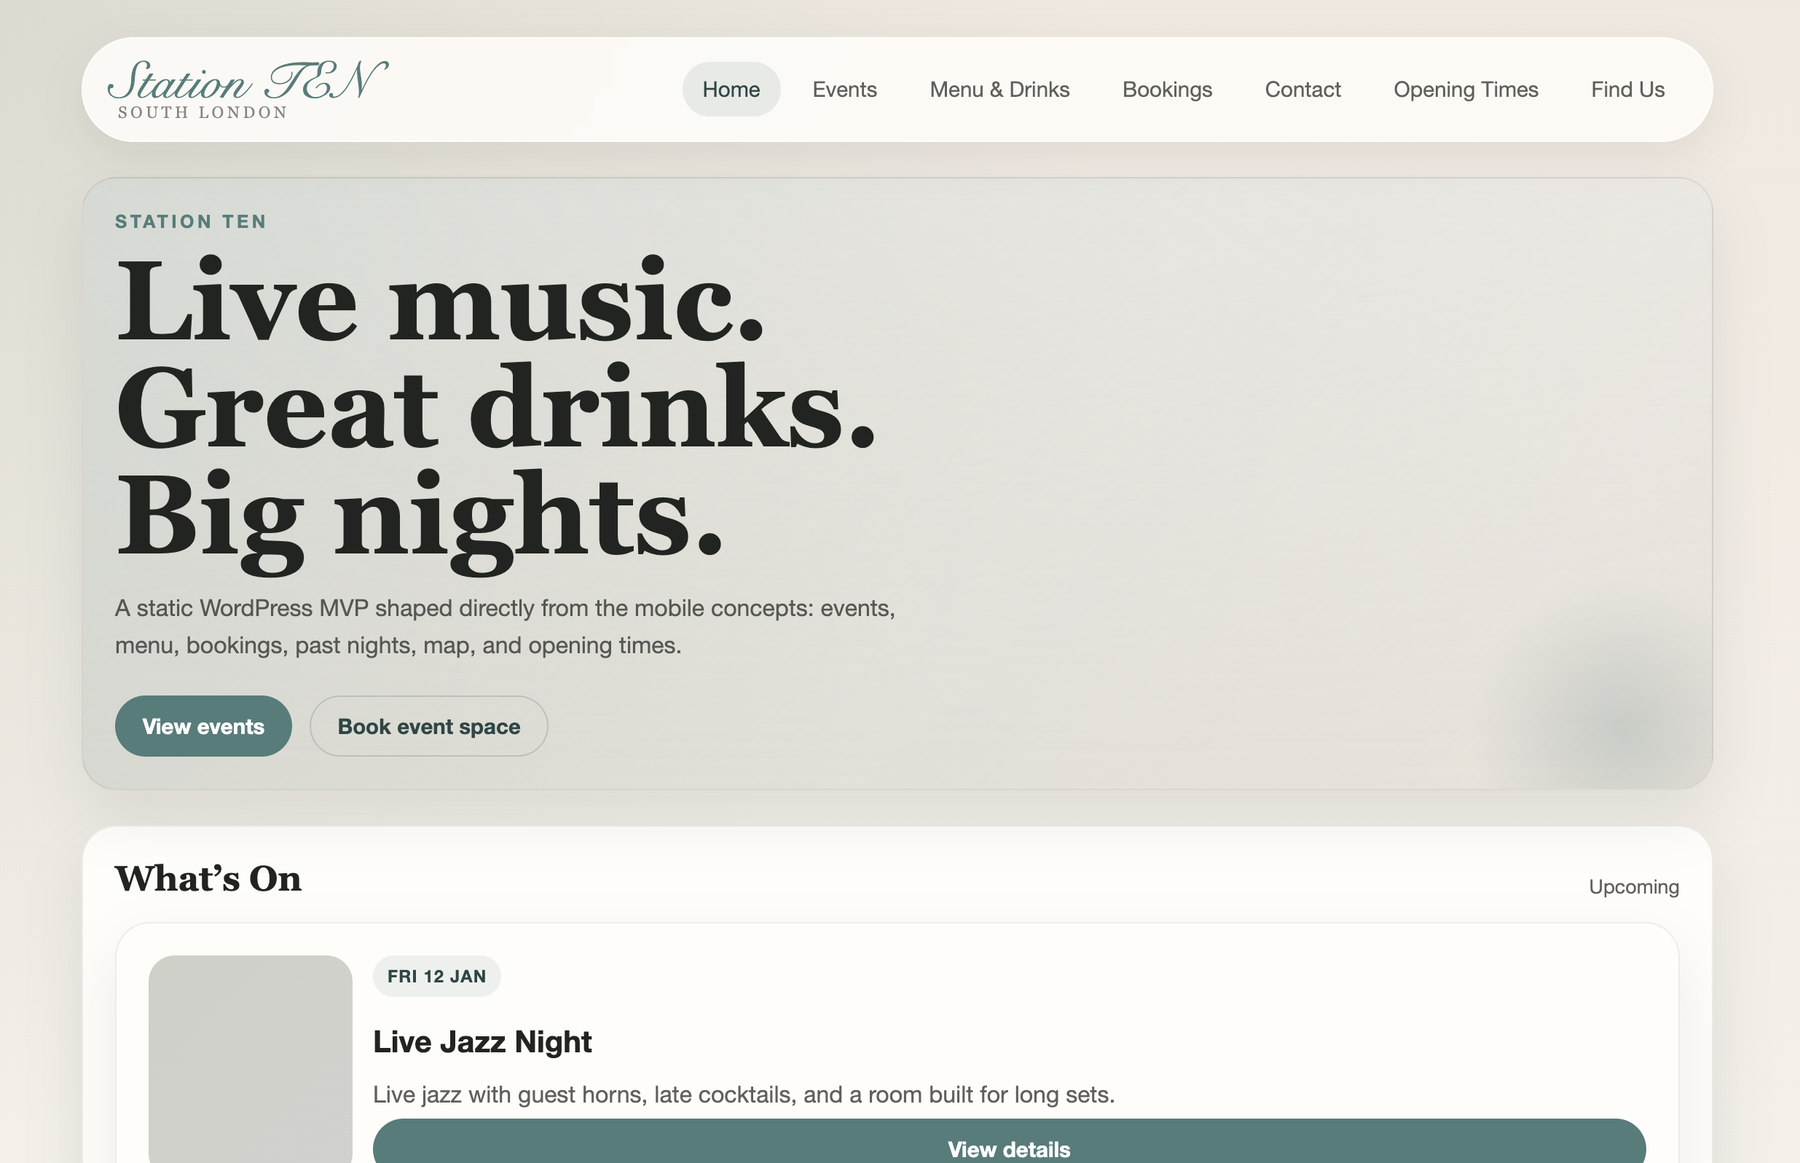
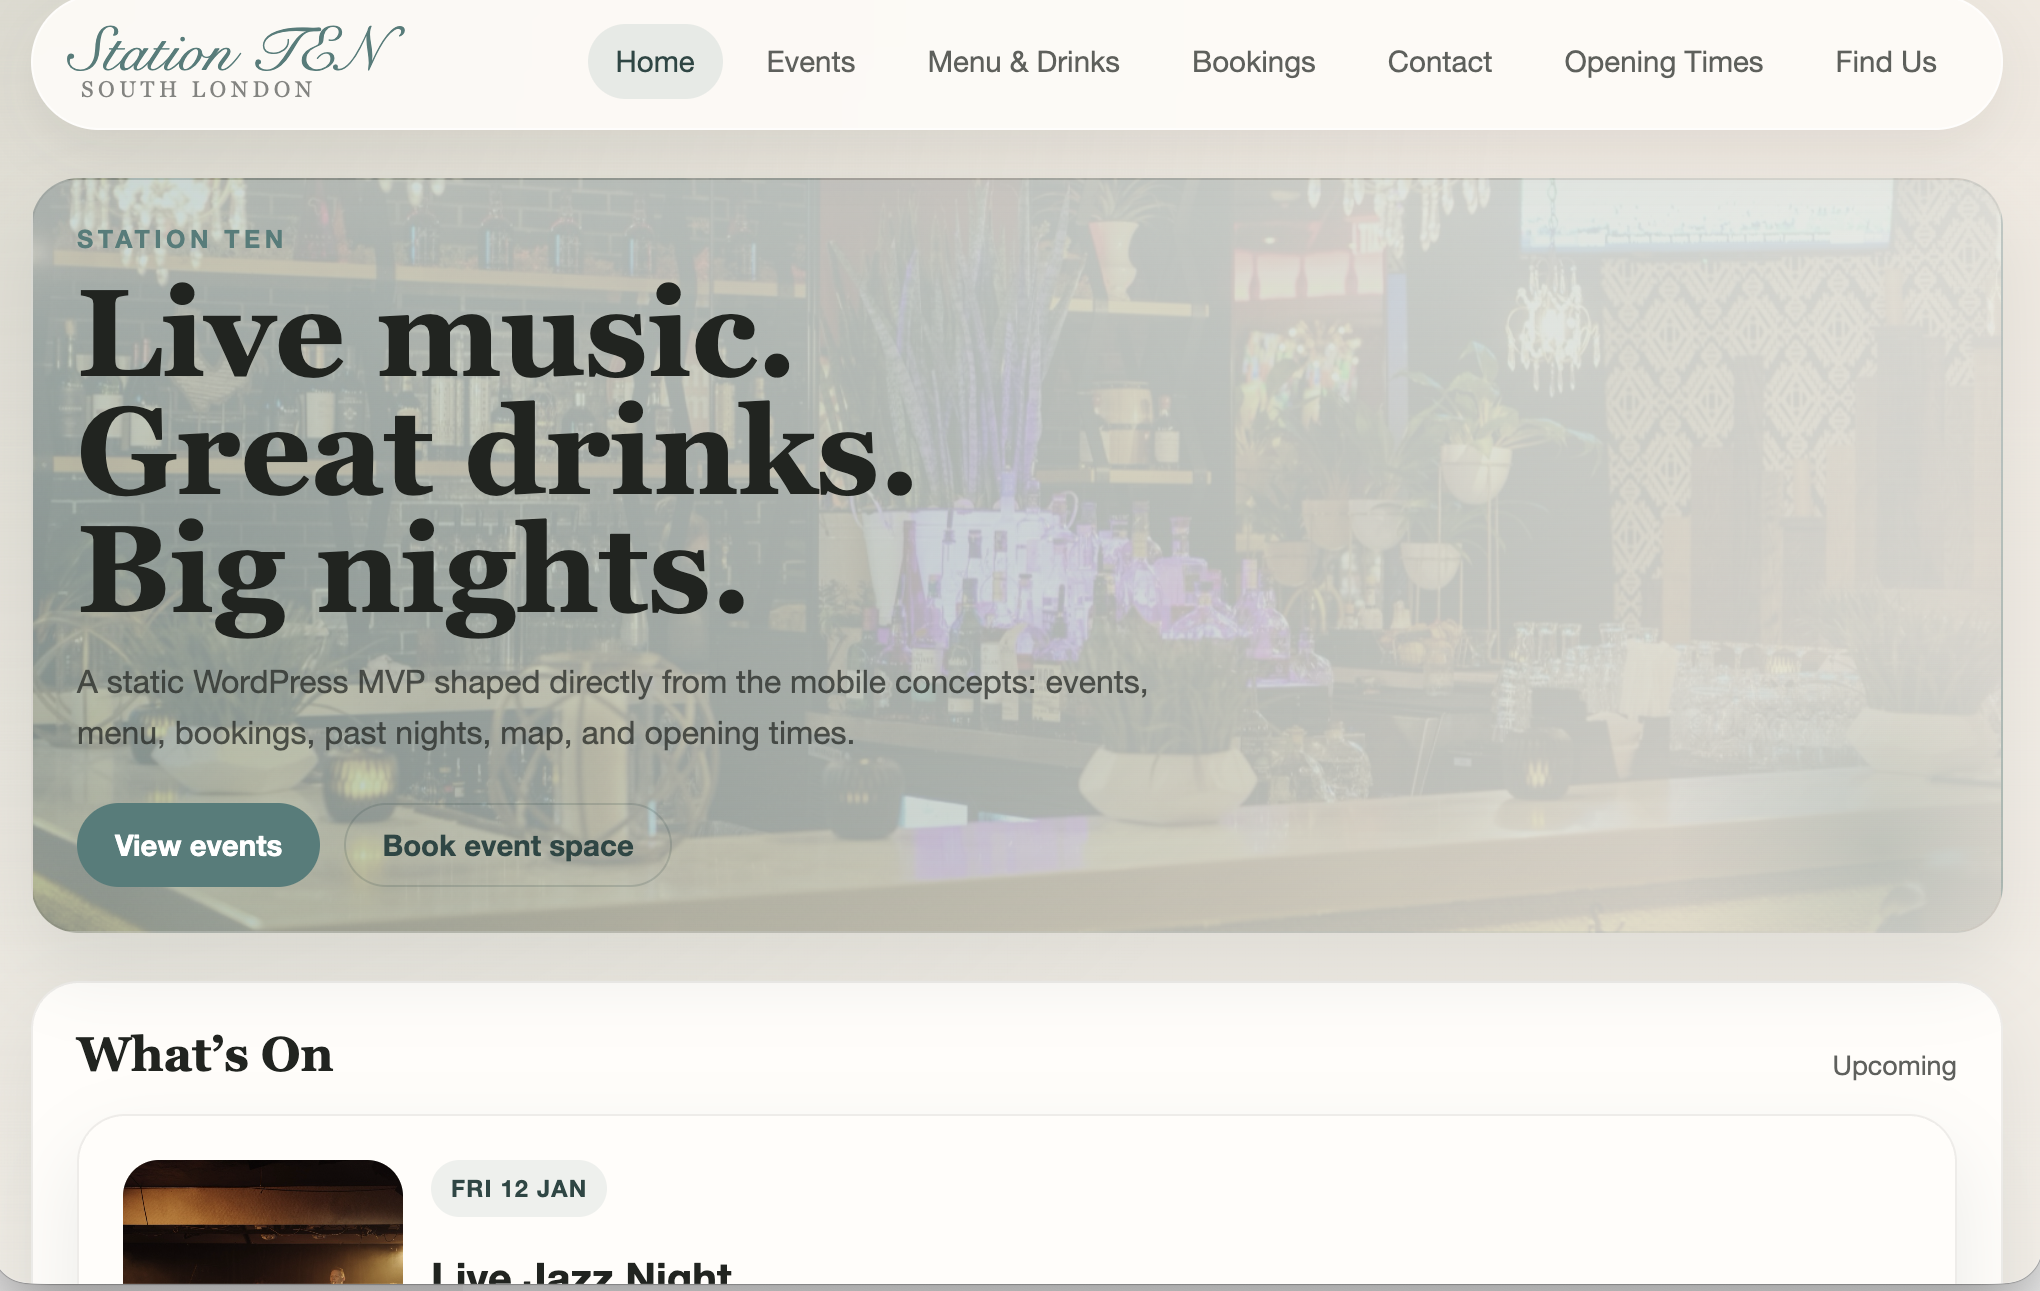
content: update Station Ten homepage screenshot
Replaces the placeholder-era screenshot with the current live site
homepage and corrects the recorded dimensions (2040x1291) so the
case-study gallery renders it at its real aspect ratio.

diff --git a/src/lib/projects.ts b/src/lib/projects.ts
@@ -274,7 +274,7 @@ export const projects: Project[] = [
     tagline: "A custom WordPress theme and digital experience for a live venue — events, booking and menu.",
     tags: ["UX", "Brand"],
     screenshots: [
-      { src: "/work/station-ten/home.png", alt: "Station Ten — homepage hero and upcoming events listing", width: 1800, height: 1163 },
+      { src: "/work/station-ten/home.png", alt: "Station Ten — homepage hero and upcoming events listing", width: 2040, height: 1291 },
     ],
   },
 ];
